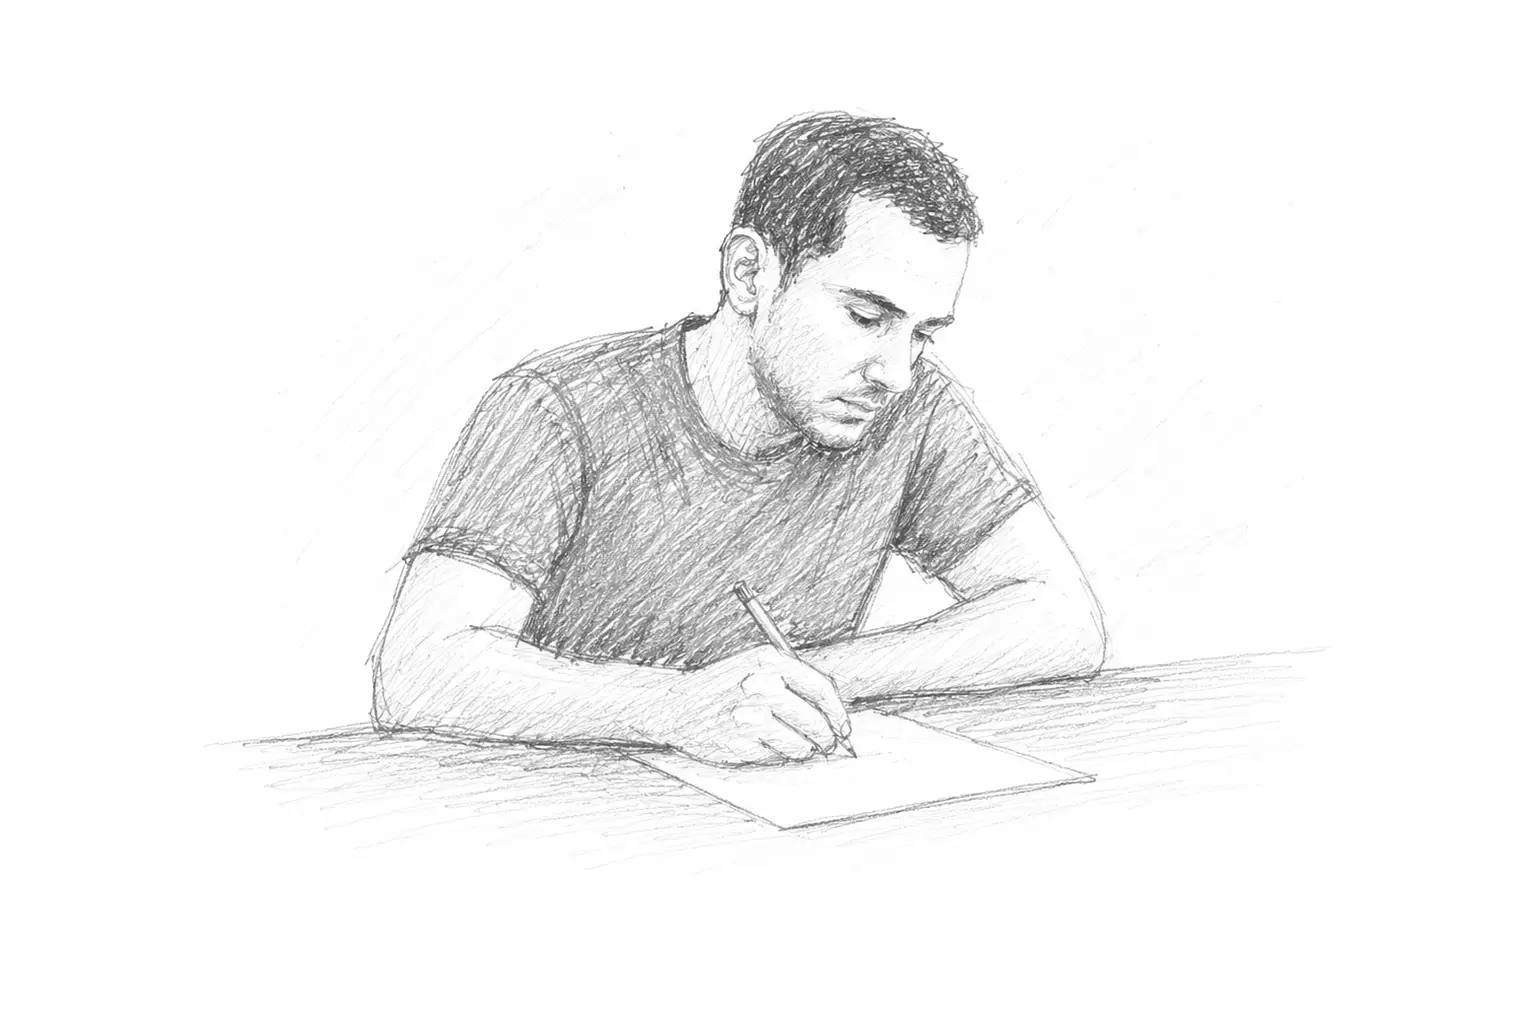
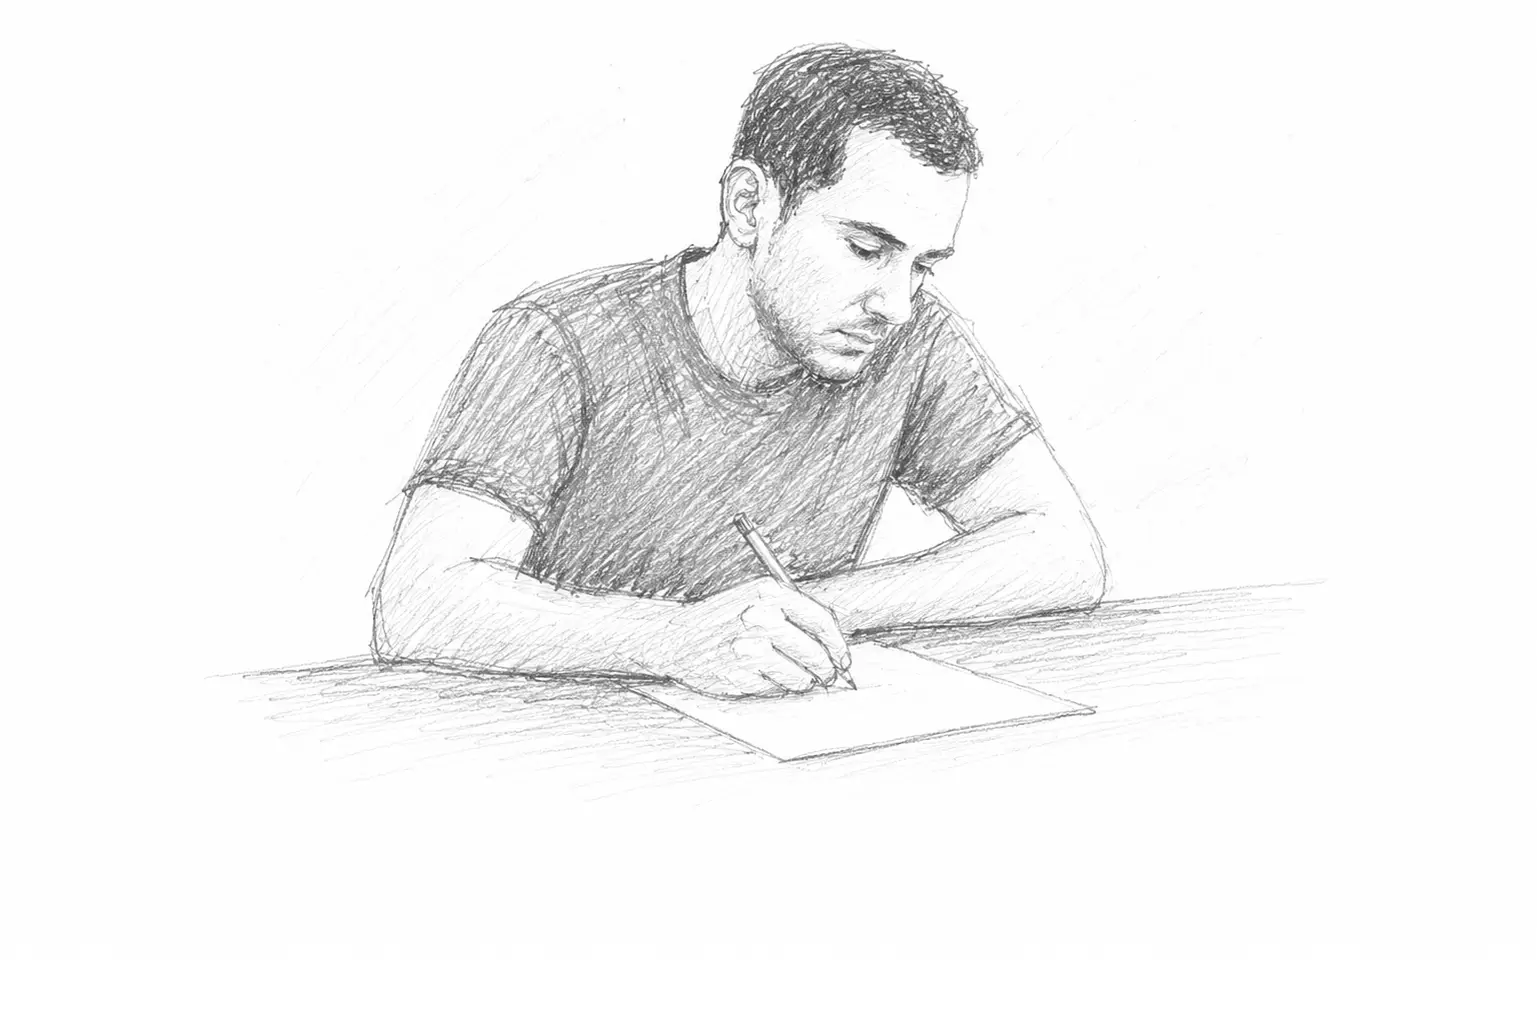
Refresh contact illustration

diff --git a/contact.html b/contact.html
@@ -32,8 +32,8 @@
       </div>
       <div class="contact-video">
         <picture>
-          <source media="(max-width: 800px)" srcset="images/contact/contact-portrait-768.webp?v=20260818f" type="image/webp">
-          <img src="images/contact/contact-portrait.webp?v=20260818f" width="1537" height="1023" alt="Carlos Tarrats writing on a sheet of paper" fetchpriority="high">
+          <source media="(max-width: 800px)" srcset="images/contact/contact-portrait-768.webp?v=20260818g" type="image/webp">
+          <img src="images/contact/contact-portrait.webp?v=20260818g" width="1537" height="1023" alt="Carlos Tarrats writing on a sheet of paper" fetchpriority="high">
         </picture>
       </div>
     </div>
